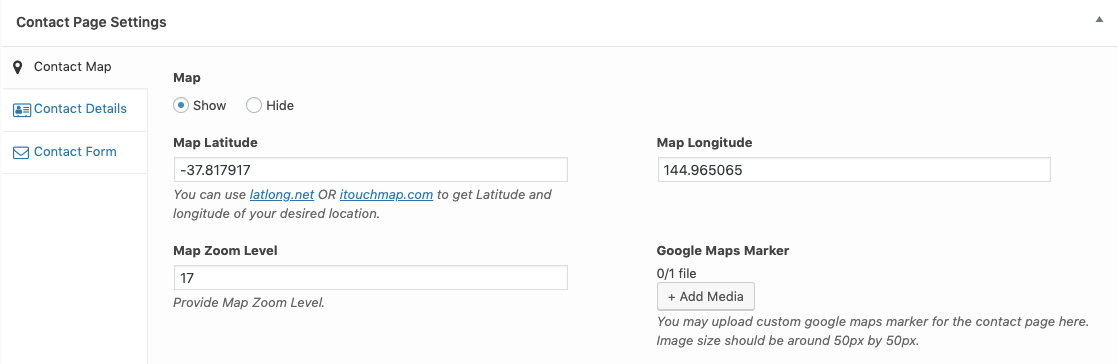
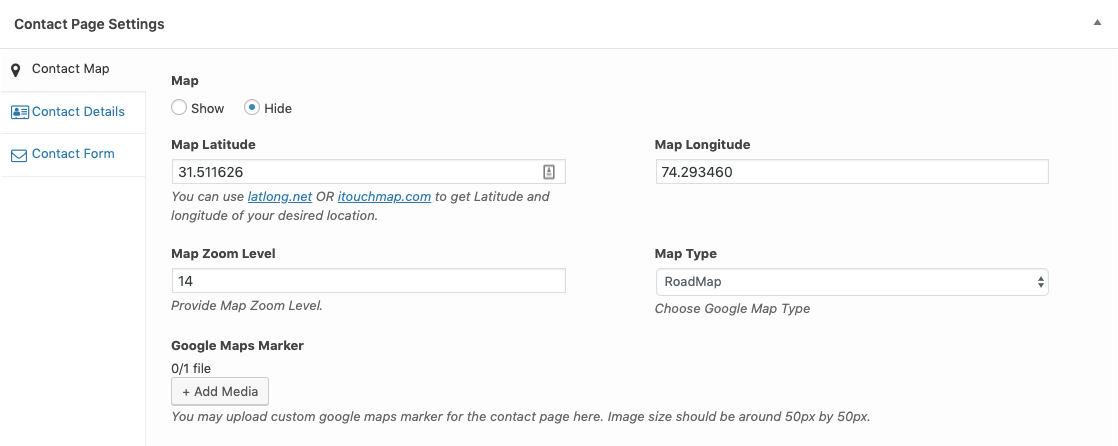
Added - Migrate Contact Settings from Customizer to Page Meta.

diff --git a/docs/contact-page.md b/docs/contact-page.md
@@ -20,12 +20,17 @@ Since theme version `3.9.2` you can create as many contact pages as you want and
 
 ### Contact Map
 ![Contact Map Tab](images/contact-page/contact-map-tab.png)
+
+!!! note
+    **Map Type** option works only with Google Maps. To enable Google Maps for your website, You need to configure **Google Maps API key** by navigating to **Easy Real Estate → Settings → Maps**.
+
 ### Contact Details
 ![Contact Details Tab](images/contact-page/contact-details-tab.png)
 ### Contact Form
 ![Contact Form Tab](images/contact-page/contact-form-tab.png)
 
-**Note**: The *Contact Details Title* and *Contact Form Heading* fields are only for the **Classic** design variation.
+!!! note
+    The **Contact Details Title** and **Contact Form Heading** fields are only for the **Classic** design variation.
 
 ### Top Banner 
 
@@ -41,40 +46,12 @@ After publishing you need to add the newly created page in menu from **Dashboard
 
 ![Add Contact Page to Menu](images/contact-page/add-contact-page-menu.png)
 
-Next step is to configure **Contact Page** settings.
 
-## **Contact Settings**
+### **Header Variation (Modern)**
 
-Navigate to **Dashboard → Real Homes → Customize Settings**. In this panel look for **Contact Page** section and explore all the available settings in it to configure Contact page.
+Navigate to **Dashboard → Real Homes → Customize Settings → Contact Page** section.
 
-![Various Pages Panel](images/contact-page/various-pages-panel.png)
-
-### **Header Variation**
-
-![show/hide banner](images/single-property-page/banner-display.png)
+![show/hide banner](images/contact-page/banner-display.png)
 
 !!! note
     **Header Variation** option is available in **Modern** Variation only.
-
-### **Google Map**
-
-If you want to display the google map on contact page then you need to enable it from settings displayed below. Please provide your location's coordinates. You can find your location's latitude and longitude from [itouchmap.com/latlong.html](http://itouchmap.com/latlong.html). You also need to provide the appropriate zoom level value as displayed below.
-
-![Google Map On Contact Page](images/contact-page/google-map-on-contact-page.png)
-
-!!! note
-    **Map Type** option works only with Google Maps. To enable Google Maps for your website, You need to configure **Google Maps API key** by navigating to **Easy Real Estate → Settings → Maps**.
-
-### **Contact Details**
-
-Using settings displayed below, You can share any contact details that you want your site's visitors to have.
-
-![Contact Details](images/contact-page/contact-details.png)
-
-### **Contact Form**
-
-Use the settings displayed below to provide **Contact Form Heading** and **Contact Form Email** to receive contact form messages. You can also add **CC** and **BCC** email addresses seprated by comma.
-
-You can also replace the default contact form with plugin based form by adding the the shortcode in **Contact Form Shortcode** field.
-
-![Contact Form](images/contact-page/contact-form.png)
